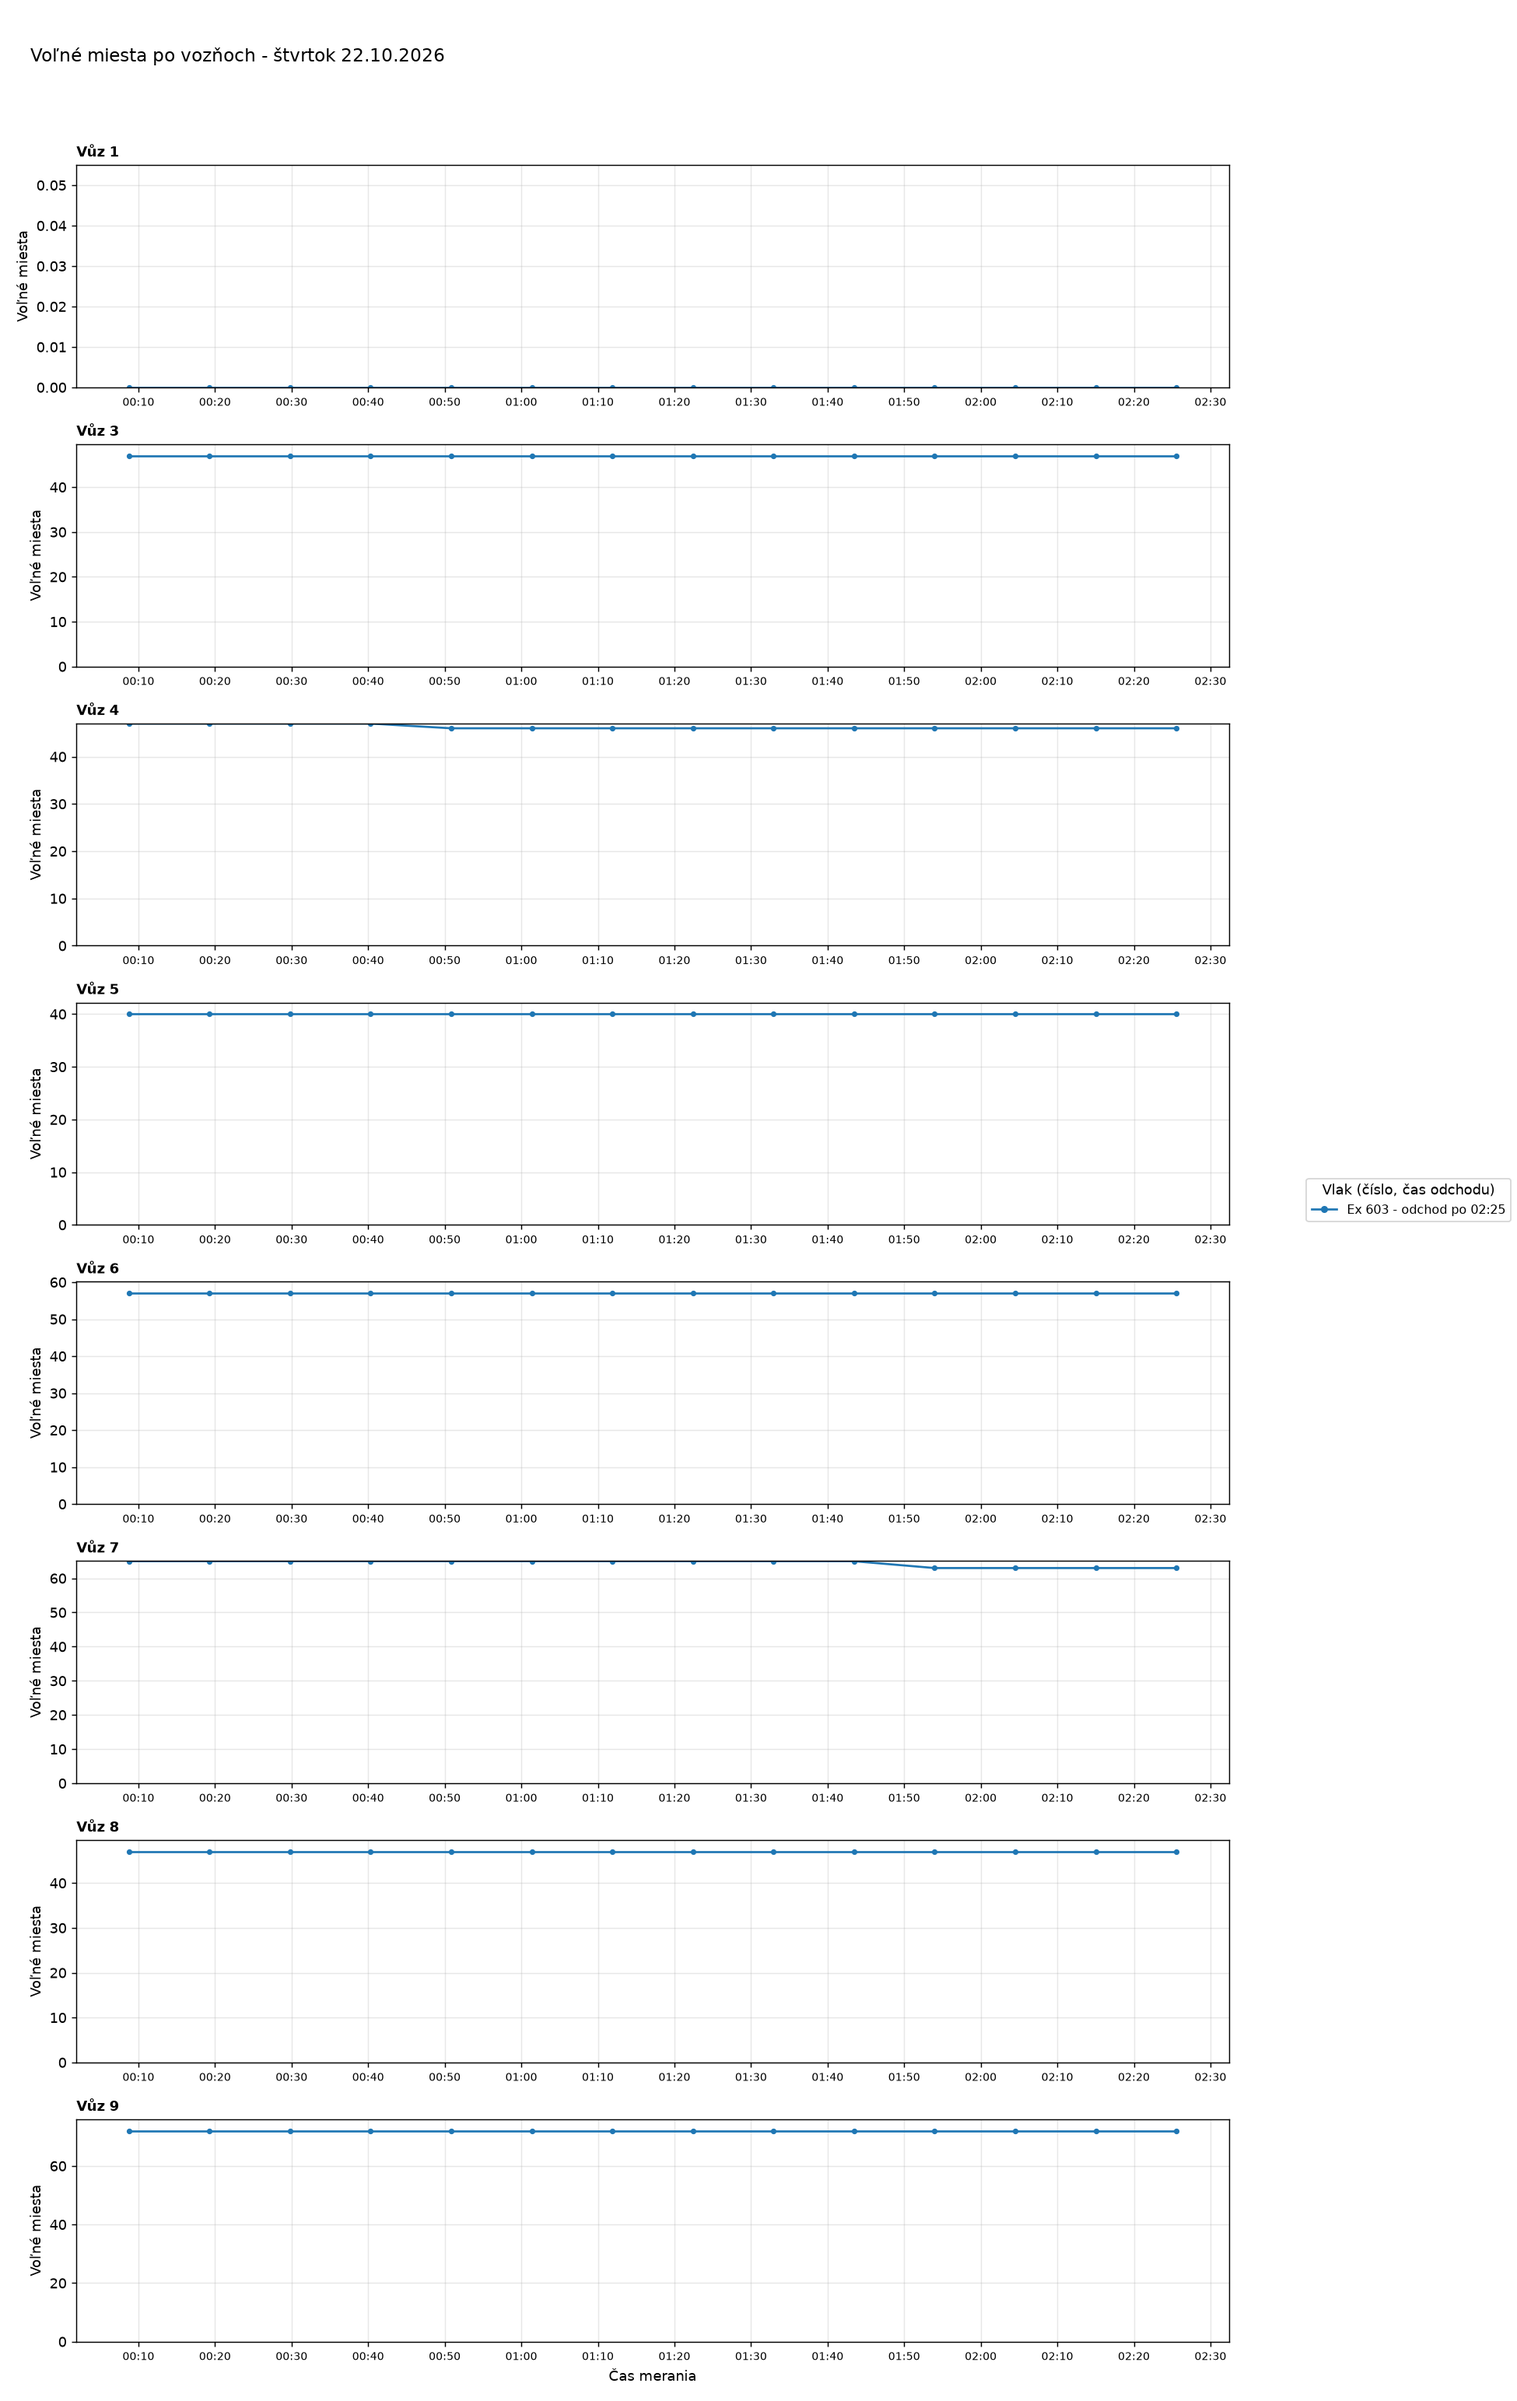
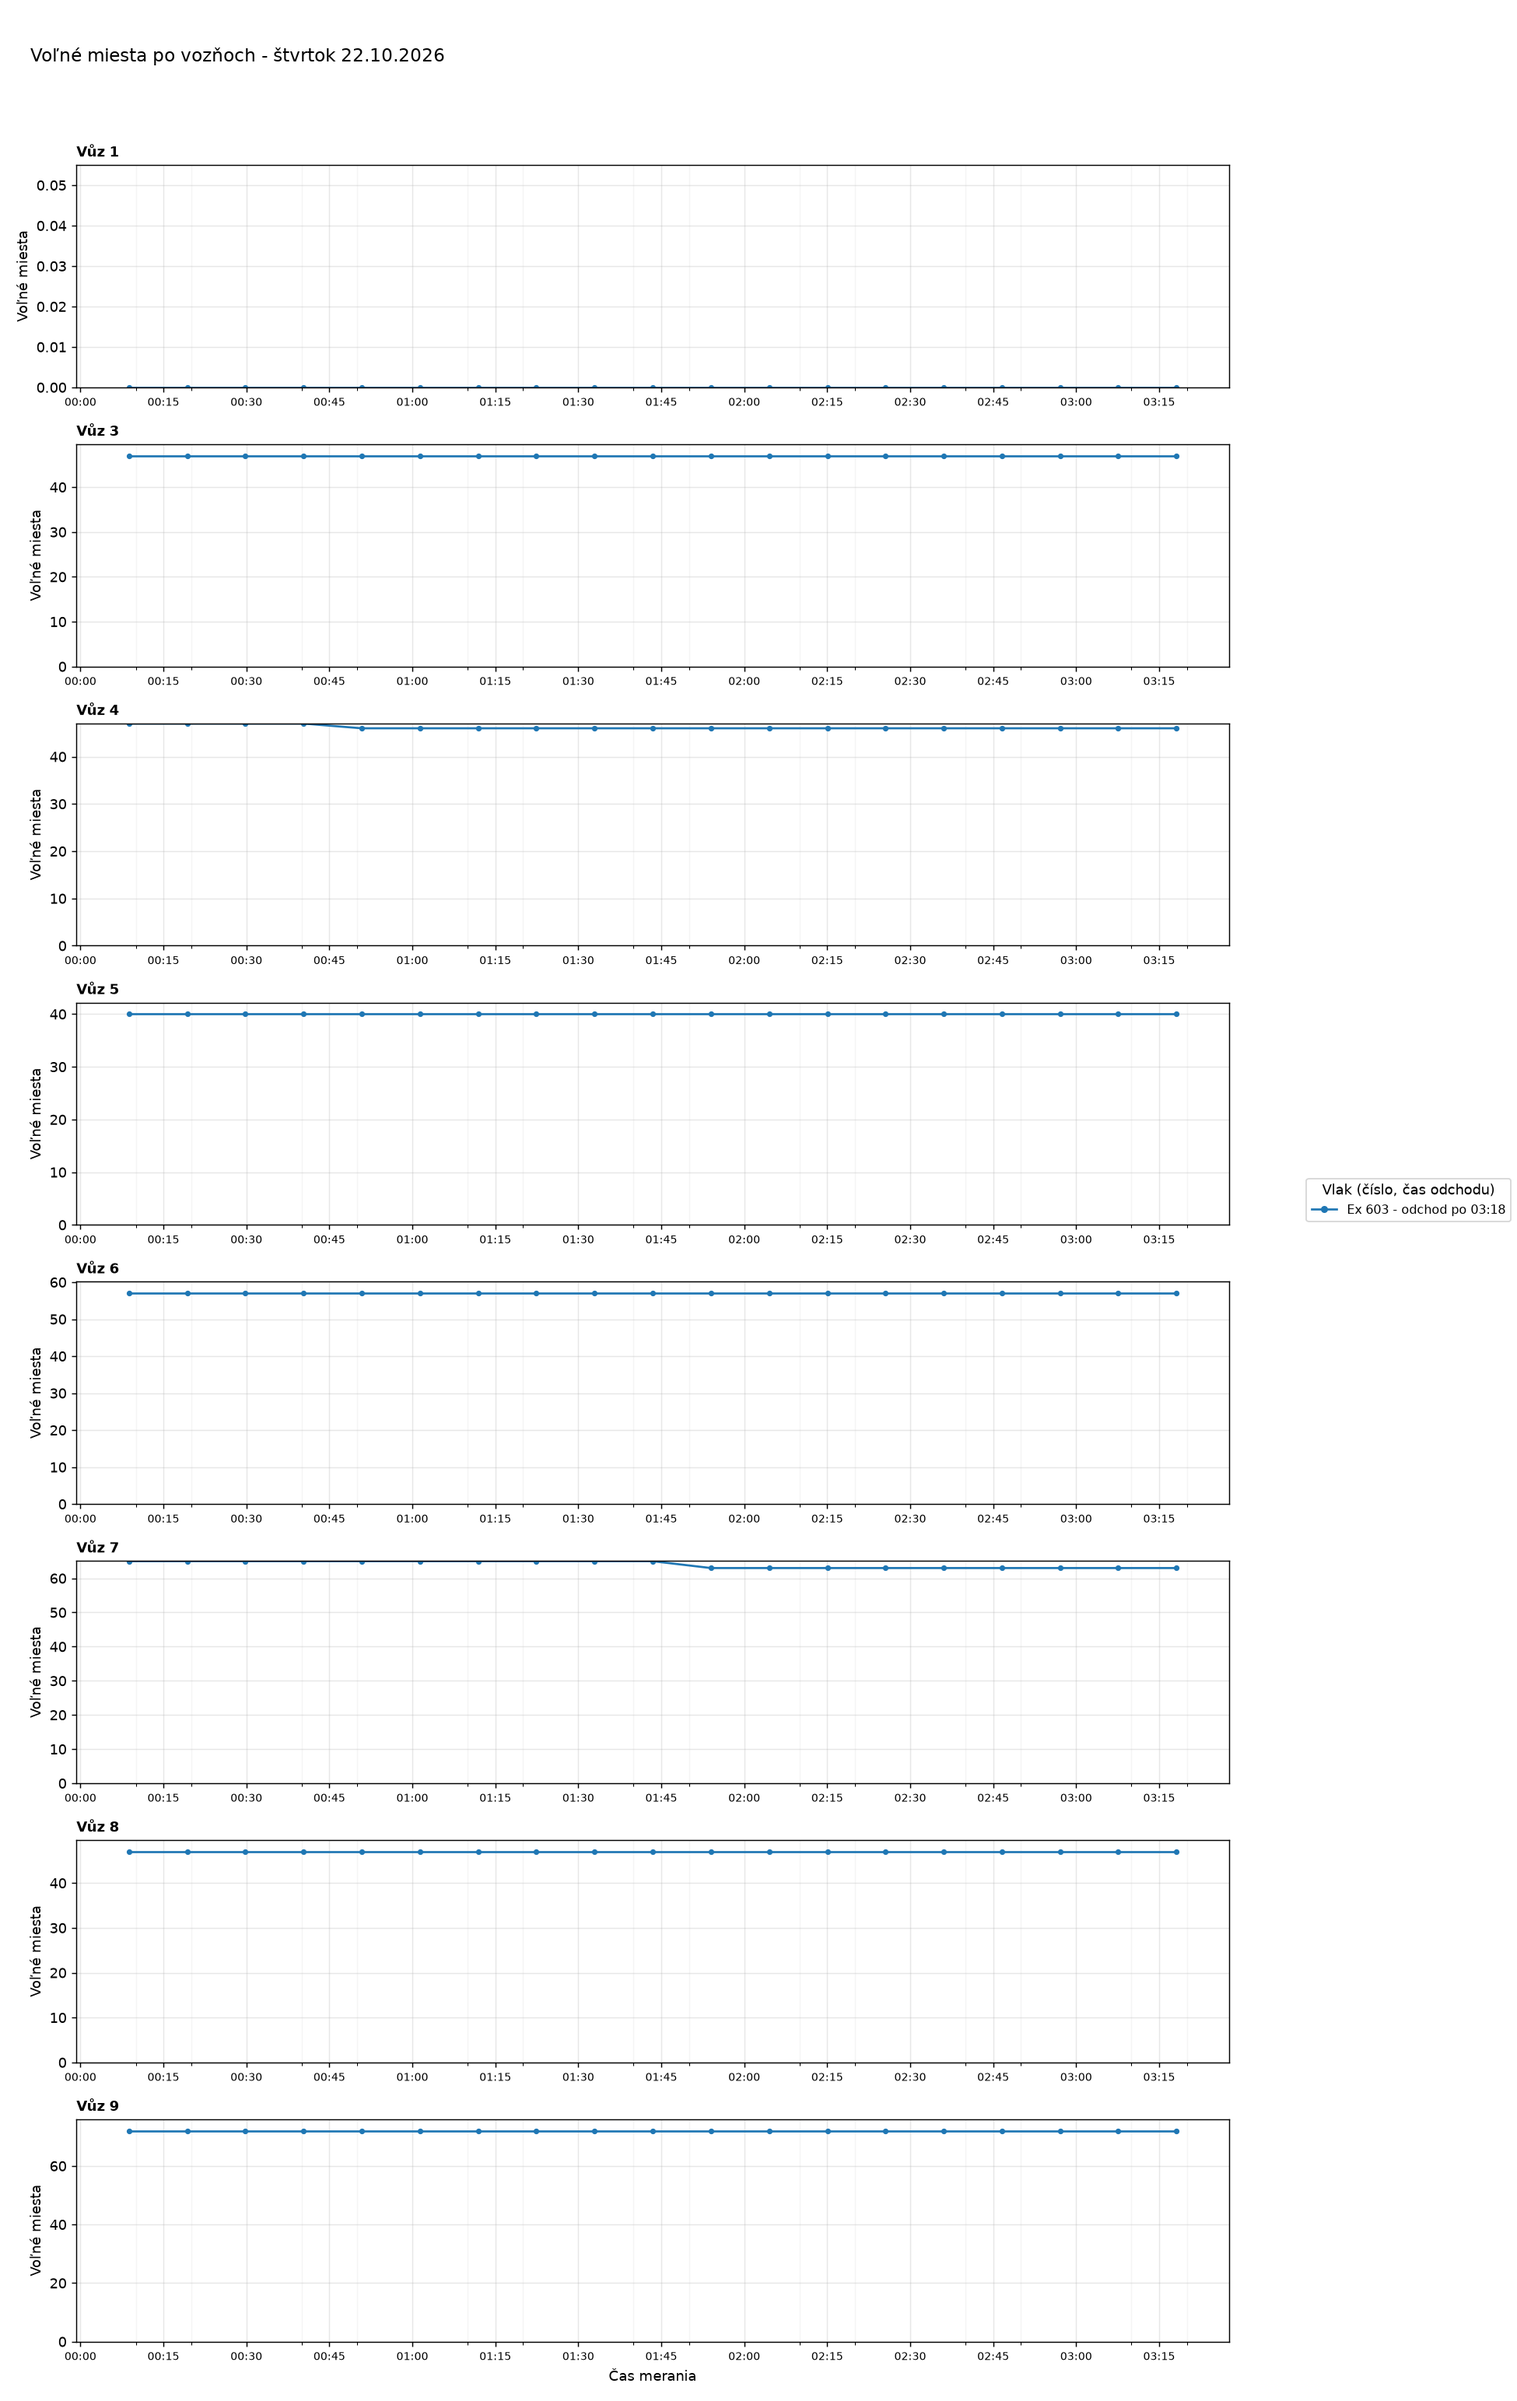
Aktualizácia grafov 2026-10-22 03:25

Changed region(s): [[0.5846, 0.6222, 0.6154, 0.6533], [0.2462, 0.28, 0.2769, 0.3111]]

diff --git a/index.html b/index.html
@@ -30,7 +30,7 @@ img{display:block;width:100%;height:auto;background:#fff;border-radius:6px;
 <body>
 <main>
 <h1>Voľné miesta vo vlakoch</h1>
-<p class="muted">Posledné meranie: 22.10.2026 02:25 ·
+<p class="muted">Posledné meranie: 22.10.2026 03:18 ·
 <a href="data/obsadenost_data.csv">stiahnuť dáta (CSV)</a></p>
 
 <section class="card">
@@ -38,7 +38,7 @@ img{display:block;width:100%;height:auto;background:#fff;border-radius:6px;
 <div class="tablewrap"><table>
 <thead><tr><th>Deň</th><th>Meraní</th><th>Vlakov</th><th>Čas meraní</th></tr></thead>
 <tbody>
-<tr><td><a href="#d2026-10-22">štvrtok 22.10.2026</a></td><td>14</td><td>1</td><td>00:08-02:25</td></tr>
+<tr><td><a href="#d2026-10-22">štvrtok 22.10.2026</a></td><td>19</td><td>1</td><td>00:08-03:18</td></tr>
 <tr><td><a href="#d2026-10-21">streda 21.10.2026</a></td><td>96</td><td>15</td><td>00:10-23:58</td></tr>
 <tr><td><a href="#d2026-10-20">utorok 20.10.2026</a></td><td>34</td><td>7</td><td>13:55-23:50</td></tr>
 </tbody></table></div>
